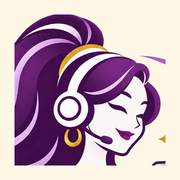
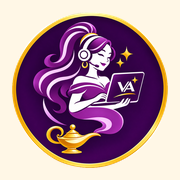
Add files via upload

diff --git a/index.html b/index.html
@@ -3,10 +3,19 @@
 <head>
 <meta charset="utf-8">
 <meta name="viewport" content="width=device-width, initial-scale=1">
-<title>VA Nina | Virtual Assistant Hour Packs</title>
-<meta name="description" content="Pay-as-you-go virtual assistant hours for small businesses. Prepaid packs, no monthly contract.">
-<meta name="robots" content="noindex, nofollow">
+<title>VA Nina Ricci Madrona | Virtual Assistant, Pay-As-You-Go Hours</title>
+<meta name="description" content="VA Nina Ricci Madrona is a virtual assistant for small businesses. Prepaid hour packs from $12 an hour for inbox, calendar, data entry, social media and admin. No monthly contract.">
+<link rel="canonical" href="https://vaninariccimadrona.vercel.app/">
+<meta property="og:type" content="website">
+<meta property="og:title" content="VA Nina Ricci Madrona | Virtual Assistant">
+<meta property="og:description" content="Extra hands for your small business. Prepaid hour packs from $12 an hour, no monthly contract.">
+<meta property="og:url" content="https://vaninariccimadrona.vercel.app/">
+<meta property="og:image" content="https://vaninariccimadrona.vercel.app/logo.png">
+<meta name="twitter:card" content="summary_large_image">
+<meta name="robots" content="index, follow">
 <link rel="icon" href="favicon.ico" sizes="any">
+<link rel="icon" type="image/png" sizes="48x48" href="icon-48.png">
+<link rel="icon" type="image/png" sizes="192x192" href="icon-192.png">
 <link rel="icon" type="image/png" sizes="512x512" href="icon-512.png">
 <link rel="apple-touch-icon" href="apple-touch-icon.png">
 <link rel="preconnect" href="https://fonts.googleapis.com"><link rel="preconnect" href="https://fonts.gstatic.com" crossorigin>
@@ -20,7 +29,7 @@ h1,h2,h3{font-family:Montserrat,system-ui,sans-serif;font-weight:800;line-height
 .wrap{max-width:1080px;margin:0 auto;padding:0 20px}
 header{display:flex;justify-content:space-between;align-items:center;padding:16px 0}
 .brand{display:flex;align-items:center;gap:12px;font:800 22px Montserrat,sans-serif;color:var(--deep);text-decoration:none}
-.brand img{width:46px;height:46px;border-radius:12px;display:block}
+.brand img{width:48px;height:48px;border-radius:50%;display:block}
 .btn{display:inline-flex;align-items:center;justify-content:center;height:50px;padding:0 28px;border-radius:99px;border:0;background:var(--deep);color:#fff;font:600 16px Poppins,sans-serif;cursor:pointer;text-decoration:none;transition:background .2s}
 .btn:hover{background:var(--purple)}
 .btn.ghost{background:transparent;color:var(--deep);border:2px solid var(--lilac)}
@@ -78,6 +87,7 @@ input,select{height:48px}textarea{min-height:110px;padding:12px 14px;resize:vert
 .err{color:#a1204a;font-weight:600}
 @media(max-width:820px){.hero{grid-template-columns:1fr;padding-top:8px}.hero img{max-width:340px;order:-1}.rev{grid-template-columns:1fr}}
 </style>
+<script type="application/ld+json">{"@context":"https://schema.org","@type":"ProfessionalService","name":"VA Nina Ricci Madrona","alternateName":["VA Nina","VA Nina Ricci","Nina Ricci Madrona"],"description":"Virtual assistant for small businesses. Prepaid hour packs for inbox, calendar, data entry, social media and admin.","url":"https://vaninariccimadrona.vercel.app/","image":"https://vaninariccimadrona.vercel.app/icon-512.png","logo":"https://vaninariccimadrona.vercel.app/icon-512.png","founder":{"@type":"Person","name":"Nina Ricci Madrona","jobTitle":"Virtual Assistant"},"sameAs":["https://www.linkedin.com/in/nina-ricci-madrona-002191a2/"],"priceRange":"$$"}</script>
 </head>
 <body>
 <div class="wrap">
@@ -88,8 +98,9 @@ input,select{height:48px}textarea{min-height:110px;padding:12px 14px;resize:vert
 
 <div class="hero">
   <div>
-    <div class="eyebrow">Virtual assistant · Pay as you go</div>
+    <div class="eyebrow">Nina Ricci Madrona · Virtual assistant</div>
     <h1>Extra hands for your small business.</h1>
+    <p class="lead" style="margin-top:14px;color:var(--deep);font-weight:500">Hi, I am Nina Ricci Madrona, a virtual assistant you can hire by the hour.</p>
     <p class="lead">Hand off the everyday tasks that keep piling up. Buy a pack of hours, send me the work, and get back to running your business. From $12 an hour, no monthly contract.</p>
     <div class="cta-row"><a class="btn" href="#packs">See the hour packs</a><button class="btn ghost" data-ask>Ask a question</button></div>
   </div>
